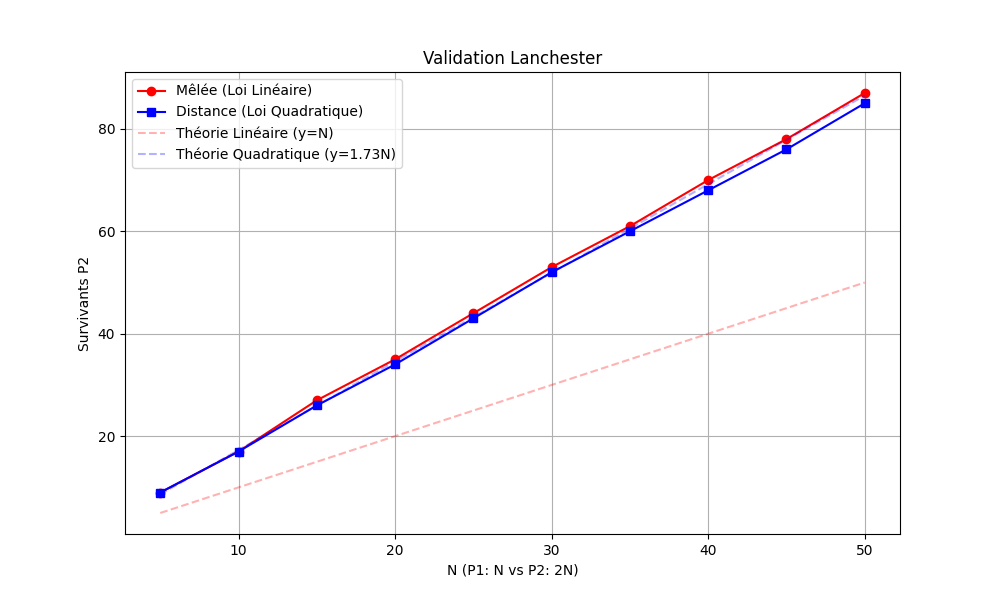
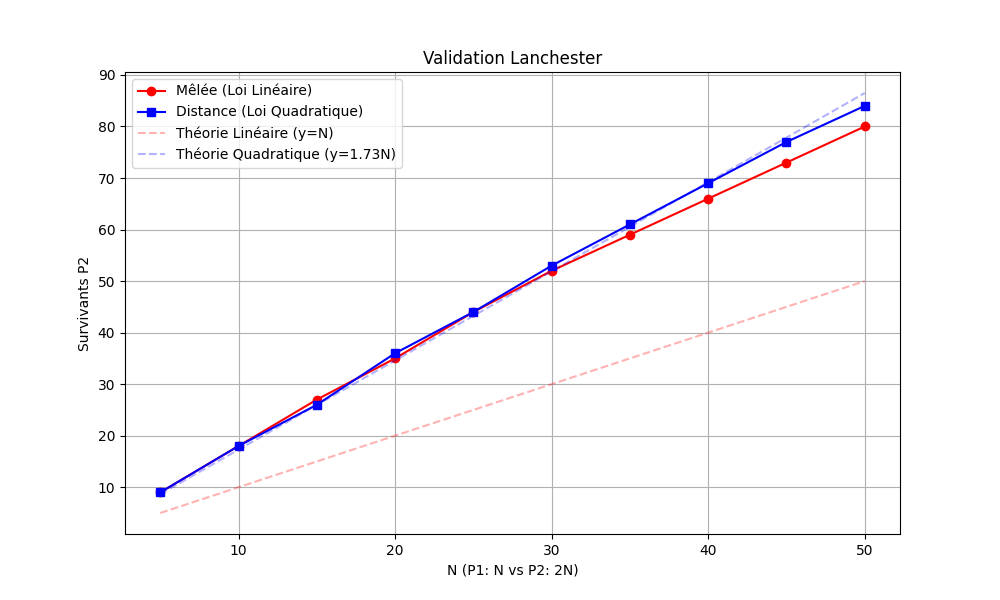
resol finally !!!

diff --git a/age/TerminalCodeOrganized/Scenario_lanchester.py b/age/TerminalCodeOrganized/Scenario_lanchester.py
@@ -1,38 +1,41 @@
+import math
+
 def lanchester_scenario(engine, unit_type, N):
     """
-    Scénario pur pour validation scientifique (Lois de Lanchester).
-    Oppose N unités (P1) à 2N unités (P2) de type identique.
+    Scénario pour validation scientifique (Lois de Lanchester).
+    Version optimisée pour forcer la séparation entre Loi Linéaire et Quadratique.
     """
-    # Statistiques symétriques pour ne pas fausser le test
+    # Statistiques ajustées pour mettre en évidence l'encombrement (collisions)
     stats_lanchester = {
         "Knight": {
-            "hp": 100, "attack": 10, "range": 0.5, "speed": 1.5, 
-            "reload_time": 1.0, "tags": ["Cavalry"]
+            "hp": 100, "attack": 10, "range": 0.5, "speed": 0.8, 
+            "reload_time": 1.0, "radius": 0.6, "tags": ["Cavalry"]
         },
         "Crossbowman": {
-            "hp": 100, "attack": 10, "range": 10.0, "speed": 1.0, 
-            "reload_time": 1.0, "tags": ["archer"]
+            "hp": 100, "attack": 10, "range": 12.0, "speed": 1.0, 
+            "reload_time": 1.0, "radius": 0.4, "tags": ["archer"]
         }
     }
     
     u_stats = stats_lanchester.get(unit_type, stats_lanchester["Knight"])
 
-    # Positionnement Joueur 1 (N unités)
+    # Positionnement Joueur 1 (N unités) - Légèrement espacés
     for i in range(N):
         engine.spawn_unit(
             player=1, 
-            x=20 + (i % 5) * 0.5,
-            y=30 + (i // 5) * 0.5, 
+            x=15 + (i % 5) * 1.2,
+            y=25 + (i // 5) * 1.2, 
             unit_type=unit_type, 
             **u_stats
         )
     
-    # Positionnement Joueur 2 (2N unités)
+    # Positionnement Joueur 2 (2N unités) - Placé plus loin (x=45)
+    # On augmente l'espacement pour que les collisions soient gérées par l'Engine
     for i in range(2 * N):
         engine.spawn_unit(
             player=2, 
-            x=28 + (i % 5) * 0.5, #ppour avoire une bataille qui se fasse vite au debut 
-            y=30 + (i // 5) * 0.5, 
+            x=45 + (i % 5) * 1.2, 
+            y=25 + (i // 5) * 1.2, 
             unit_type=unit_type, 
             **u_stats
         )
